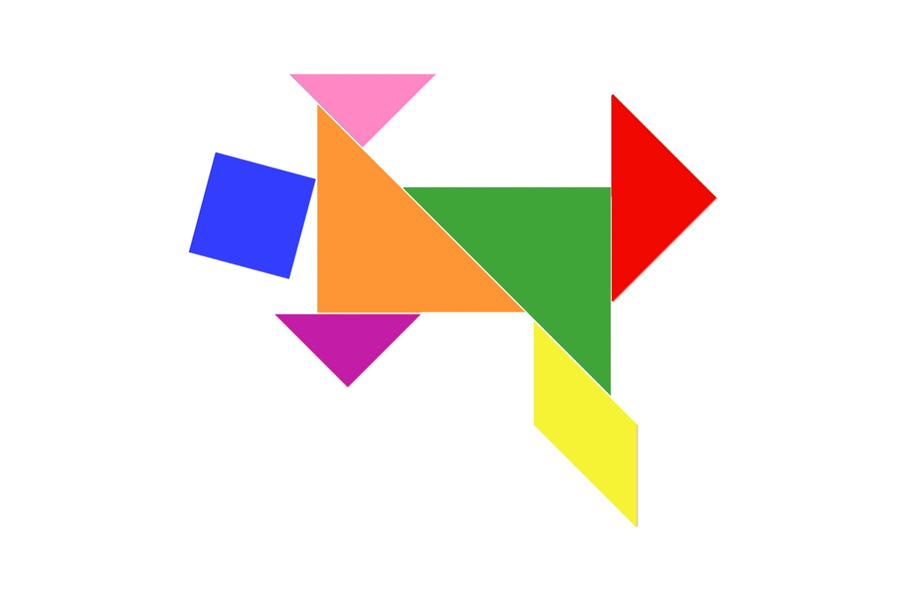
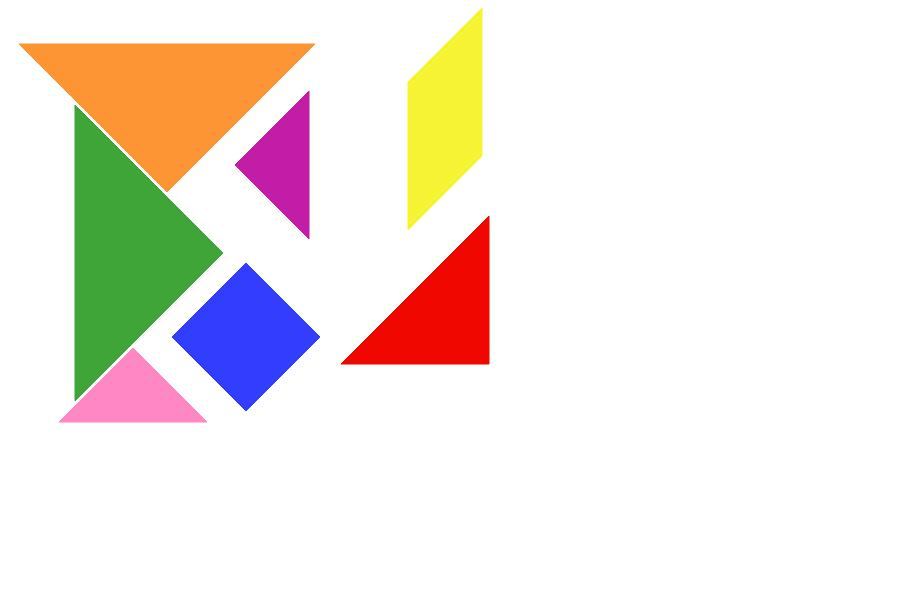
UPDATE

diff --git a/callTangramUI.py b/callTangramUI.py
@@ -31,6 +31,7 @@ class MyMainWidget(QWidget, Ui_tangramForm):
         self.personalDesignRBtn.toggled.connect(lambda : self.btnstate(self.personalDesignRBtn))
         # push button 添加事件处理
         self.saveBtn.clicked.connect(self.btnSave_Clicked)
+        self.runBtn.clicked.connect(self.btnRun_Clicked)
         # 默认显示 图像实例中的选中图像
         self._imgPix = QPixmap('./mould/' + self.imgcboBox.currentText())
         self._pixmap_item = QGraphicsPixmapItem(self._imgPix)
@@ -41,6 +42,9 @@ class MyMainWidget(QWidget, Ui_tangramForm):
         self.scene.setSceneRect(0, 0, 900, 600)
         # 添加场景
         self.graphicsView.setScene(self.scene)
+
+        self._is_running = False
+        self._is_saved = False
 
 
 
@@ -58,6 +62,22 @@ class MyMainWidget(QWidget, Ui_tangramForm):
         print('Saving image： res/e_image.jpg ...')
         self._imgPix.save('res/e_image.jpg')
         print('Saved.')
+
+        if self._is_saved == False:
+            self._is_saved = True
+
+
+
+    def btnRun_Clicked(self):
+        if self._is_saved == False:
+            return;
+
+        if self._is_running == False:
+            self._is_running = True
+            print('Running...')
+            # 七巧板工程部分代码
+            # self._is_running = False
+
 
 
     def btnstate(self, btn):
@@ -139,18 +159,17 @@ class MyMainWidget(QWidget, Ui_tangramForm):
     def selectionchange(self,i):
         '''
         下拉列表中的选项改变后触发事件处理函数。
-        :param i:
-        :return:
         '''
         self._imgPix = QPixmap('./mould/' + self.imgcboBox.currentText())
         self._pixmap_item = QGraphicsPixmapItem(self._imgPix)
         self.scene.addItem(self._pixmap_item)
         self.graphicsView.setScene(self.scene)
-        # self.imgLable.sepp.drawPolygon(item['pos'][0], item['pos'][1], item['pos'][2], item['pos'][3])tPixmap(self._imgPix)
+
 
 
 if __name__ == '__main__':
     app = QApplication(sys.argv)
     myWidget = MyMainWidget()
+
     myWidget.show()
     sys.exit(app.exec_())

diff --git a/data.py b/data.py
@@ -14,7 +14,7 @@ from PyQt5.QtCore import  Qt, QPoint, QPointF
 tangram_info = [
     {
         'pos' : [QPoint(0, 0), QPoint(296, 0), QPoint(148, 148)], # 绿色
-        'color' : '#3fa539',
+        'color' : '#fe9535',
         'click' : False,
         'drag' : False,
         'types' : 3,
@@ -22,7 +22,7 @@ tangram_info = [
     },
     {
         'pos' : [QPoint(0, 0), QPoint(148, 148), QPoint(0, 296)], # 橙色
-        'color' : '#fe9535',
+        'color' : '#3fa539',
         'click' : False,
         'drag' : False,
         'types' : 3,
@@ -39,7 +39,7 @@ tangram_info = [
     },
     {
         'pos' : [QPoint(222, 74), QPoint(222, 222), QPoint(148, 148)], # 粉色
-        'color' : '#ff87c4',
+        'color' : '#c31ca7',
         'click' : False,
         'drag' : False,
         'types' : 3,
@@ -55,7 +55,7 @@ tangram_info = [
     },
     {
         'pos' : [QPoint(74, 222), QPoint(148, 296), QPoint(0, 296)], # 紫色
-        'color' : '#c31ca7',
+        'color' : '#ff87c4',
         'click' : False,
         'drag' : False,
         'types' : 3,

diff --git a/TangramUI.py b/TangramUI.py
@@ -50,8 +50,11 @@ class Ui_tangramForm(object):
         self.graphicsView.setHorizontalScrollBarPolicy(QtCore.Qt.ScrollBarAsNeeded)
         self.graphicsView.setObjectName("graphicsView")
         self.saveBtn = QtWidgets.QPushButton(tangramForm)
-        self.saveBtn.setGeometry(QtCore.QRect(190, 50, 90, 41))
+        self.saveBtn.setGeometry(QtCore.QRect(117, 56, 81, 41))
         self.saveBtn.setObjectName("saveBtn")
+        self.runBtn = QtWidgets.QPushButton(tangramForm)
+        self.runBtn.setGeometry(QtCore.QRect(204, 56, 81, 41))
+        self.runBtn.setObjectName("runBtn")
 
         self.retranslateUi(tangramForm)
         QtCore.QMetaObject.connectSlotsByName(tangramForm)
@@ -62,5 +65,6 @@ class Ui_tangramForm(object):
         self.sourceImageRBtn.setText(_translate("tangramForm", "图形实例"))
         self.personalDesignRBtn.setText(_translate("tangramForm", "个人设计"))
         self.saveBtn.setText(_translate("tangramForm", "保 存"))
+        self.runBtn.setText(_translate("tangramForm", " 运行"))
 
 import apprcc_rc

diff --git a/run.py b/run.py
@@ -1,0 +1,16 @@
+#!/usr/bin/env python
+# -*- coding: utf-8 -*-
+# @Time    : 2019-03-08 11:41
+# @Author  : Lynn
+# @Site    : 
+# @File    : run.py
+# @Software: PyCharm
+
+from callTangramUI import *
+
+if __name__ == '__main__':
+    app = QApplication(sys.argv)
+    myWidget = MyMainWidget()
+
+    myWidget.show()
+    sys.exit(app.exec_())
